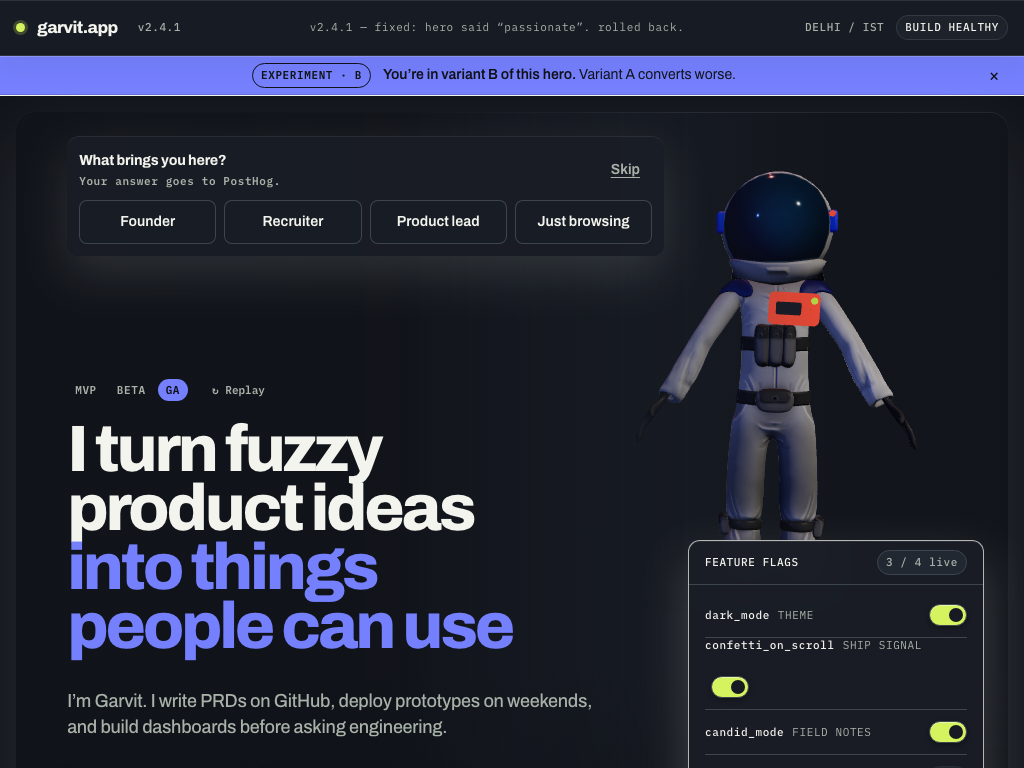
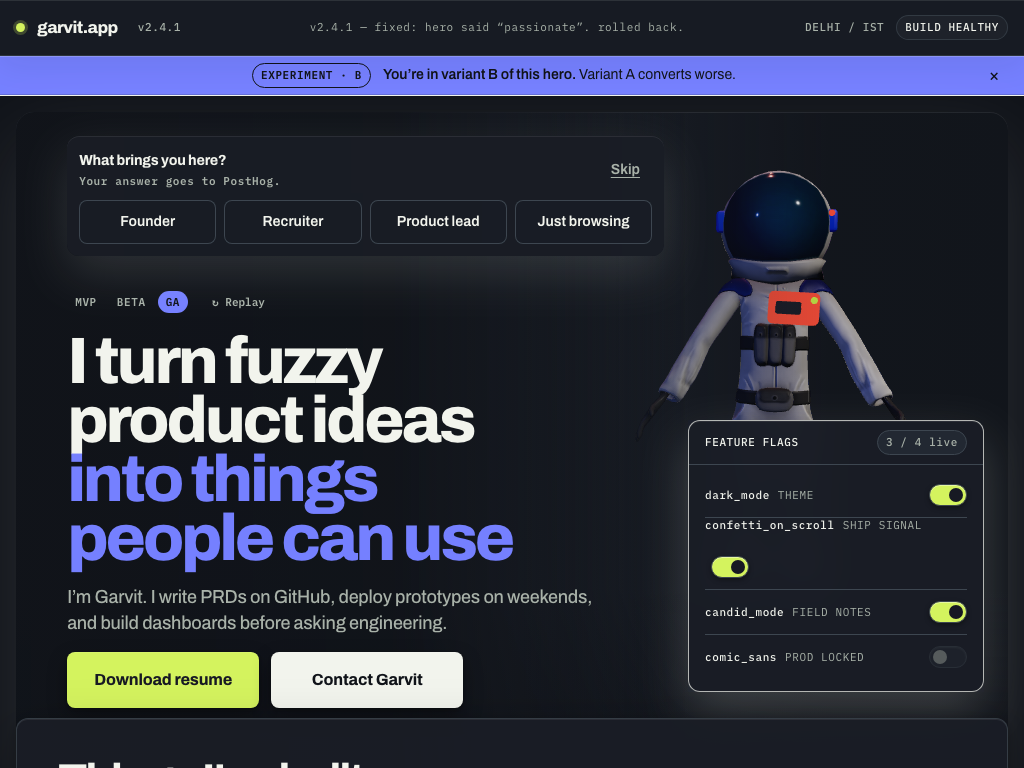
fix: keep hero CTAs in viewport at medium heights (D3 final correction)
At 1024x768 both hero CTAs sat below the initial viewport (resume CTA
bottom 828px): the 16rem persona-tray reservation plus the 880-1179
wrapped headline pushed the conversion path off-screen. Height-aware
(max-height: 929.98px) spacing compression inside the 880-1179 band:
copy padding-top 16rem -> 10.5rem (9rem at 880-1023 with the paired
tray rise to a 12px offset), intro/CTA gaps step down one token, and
bottom padding stays 8rem so the board deep-overlap teaser keeps its
approved gap to the CTA row. New e2e asserts both CTA rects fully
inside the 1024x768 viewport with >=16px bottom clearance (observed
failing at 930b80f, passing after). No type, 56px target, copy, model,
dock-semantics, or board-overlap change; all non-intersection
invariants re-verified.

Claude-Session: https://claude.ai/code/session_01A24gXsRnQhoU98ZW548uVP

diff --git a/src/components/hero/Hero.module.css b/src/components/hero/Hero.module.css
@@ -120,6 +120,46 @@
   }
 }
 
+/* Gate D3 final correction (880–1179px, medium heights): the 16rem tray
+   reservation plus the wrapped headline pushed both CTAs below a 768px
+   fold. At viewport heights ≤930px the reservation compresses toward
+   the tray's real band (24px offset + 120px tray = 144px) and the
+   intro/CTA gaps step down one token — type, 56px targets, copy, and
+   the dock-column width reservation are untouched. Above 930px even the
+   tallest band composition (880px, five-line headline) already keeps
+   both CTAs inside the fold with ≥16px clearance, so the approved tall
+   composition stands. */
+@media (max-width: 1179.98px) and (min-width: 880px) and (max-height: 929.98px) {
+  .copy {
+    /* 10.5rem clears the tray band (144px) by 24px. Bottom padding
+       stays 8rem: the board anchor's deep-overlap teaser hangs off the
+       hero's BOTTOM edge, so shrinking the bottom padding would raise
+       the board over the CTA row — the top-side reductions alone lift
+       the CTAs while preserving the approved board/CTA gap per width. */
+    padding-top: 10.5rem;
+  }
+
+  .intro,
+  .actions {
+    margin-top: var(--space-4);
+  }
+}
+
+/* 880–1023px: the headline wraps to five lines (~288px), so the copy
+   needs one more step — the persona tray rises to a 12px offset (its
+   paired rule in PersonaSatire.module.css) and the reservation follows
+   it down to 9rem, keeping a 12px tray↔copy clearance. */
+@media (max-width: 1023.98px) and (min-width: 880px) and (max-height: 929.98px) {
+  .copy {
+    padding-top: 9rem;
+  }
+
+  .intro,
+  .actions {
+    margin-top: var(--space-3);
+  }
+}
+
 @media (max-width: 879.98px) {
   .hero {
     min-height: 46rem;

diff --git a/e2e/responsive.spec.ts b/e2e/responsive.spec.ts
@@ -283,6 +283,37 @@ for (const viewport of mobileViewports) {
 }
 
 /**
+ * Gate D3 final correction — the conversion path is locked "big and
+ * unmissable": at 1024×768 (medium height, 880–1179px composition) BOTH
+ * hero CTAs must sit fully inside the initial viewport with ≥16px bottom
+ * clearance. Regression: the 16rem persona-tray reservation plus the
+ * wrapped headline pushed both CTAs below the fold.
+ */
+test("hero CTAs land fully inside the initial viewport at 1024x768", async ({
+  page,
+}) => {
+  await page.setViewportSize({ width: 1024, height: 768 });
+  await page.goto("/");
+  const hero = page.getByRole("region", {
+    name: /I turn fuzzy product ideas/i,
+  });
+
+  for (const name of [/Download resume/i, /Contact Garvit/i] as const) {
+    const cta = hero.getByRole("link", { name });
+    await expect(cta).toBeVisible();
+    const box = (await cta.boundingBox())!;
+    expect(box, String(name)).not.toBeNull();
+    expect(box.x, `${name} left edge`).toBeGreaterThanOrEqual(0);
+    expect(box.y, `${name} top edge`).toBeGreaterThanOrEqual(0);
+    expect(box.x + box.width, `${name} right edge`).toBeLessThanOrEqual(1024);
+    expect(
+      box.y + box.height,
+      `${name} bottom edge must clear the fold by >=16px`,
+    ).toBeLessThanOrEqual(768 - 16);
+  }
+});
+
+/**
  * Gate D3 — entering /#work-board must land "Things I've built" below
  * the sticky product chrome at every matrix width (mobile regression:
  * the heading used to sit beneath the chrome).

diff --git a/src/components/hero/PersonaSatire.module.css b/src/components/hero/PersonaSatire.module.css
@@ -96,6 +96,17 @@
   }
 }
 
+/* Gate D3 final correction pair (880–1023px, medium heights ≤930px):
+   the hero copy's tray reservation compresses to 9rem at these sizes
+   (Hero.module.css), so the tray itself rises to a 12px offset — its
+   band ends at 132px, keeping a 12px clearance to the copy. Tray
+   height, targets, and type are unchanged. */
+@media (max-width: 1023.98px) and (min-width: 880px) and (max-height: 929.98px) {
+  .tray {
+    top: var(--space-3);
+  }
+}
+
 @media (max-width: 619.98px) {
   .tray {
     top: var(--space-3);

diff --git a/src/components/hero/HeroEvolution.module.css b/src/components/hero/HeroEvolution.module.css
@@ -142,6 +142,16 @@
   }
 }
 
+/* Gate D3 final correction (880–1023px, medium heights ≤930px): the
+   five-line headline needs every non-type pixel — the phase rail's gap
+   to the headline steps down to 4px. Rail min-height (44px targets) and
+   all type sizes are unchanged. */
+@media (max-width: 1023.98px) and (min-width: 880px) and (max-height: 929.98px) {
+  .phaseRail {
+    margin-bottom: var(--space-1);
+  }
+}
+
 @media (max-width: 619.98px) {
   .headline {
     max-width: 22rem;

diff --git a/docs/qa/immersive/gate-d-home.md b/docs/qa/immersive/gate-d-home.md
@@ -414,3 +414,135 @@ targets/springs) untouched — design-owned.
 | **Taste total** | **— /25** | |
 
 Verdict: —
+
+## 10. D3 FINAL correction (rescore 33/40 + 20/25 → CTAs below fold at 1024×768)
+
+### 10.1 The failed rescore (design lead)
+
+| Apple criterion | Score (/5) |
+|---|---|
+| Purpose | 5 |
+| Agency | 3 |
+| Responsibility | 5 |
+| Familiarity | 4 |
+| Flexibility | 3 |
+| Simplicity | 4 |
+| Craft | 4 |
+| Delight | 5 |
+| **Apple total** | **33/40** |
+
+| Taste criterion | Score (/5) |
+|---|---|
+| Composition | 4 |
+| Hierarchy | 3 |
+| Authorship | 5 |
+| Asset/material | 5 |
+| Responsive craft | 3 |
+| **Taste total** | **20/25** |
+
+**Cause (evidence `matrix/home-1024x768-{light,dark}.png`, pre-fix):**
+at 1024×768 BOTH hero CTAs (Download resume, Contact Garvit) sat
+entirely below the initial viewport — the §9.2 correction's 16rem
+persona-tray reservation plus the 880–1179 wrapped headline pushed the
+conversion path off-screen at medium heights (resume CTA bottom edge:
+**828px** in a 768px viewport). Violates the locked big/unmissable-CTA
+requirement.
+
+### 10.2 What changed (height-aware spacing only — no type, target, copy, model, dock-semantics, or board-overlap change)
+
+All rules are gated on `max-height: 929.98px` — above 930px of viewport
+height even the tallest band composition (880px width, five-line
+headline) already kept both CTAs inside the fold with ≥16px clearance,
+so the approved tall composition stands untouched.
+
+`src/components/hero/Hero.module.css` (inside the existing 880–1179px
+band):
+
+- `.copy` `padding-top` 16rem → **10.5rem** (persona band is 24px offset
+  + 120px tray = 144px; 168px reservation keeps a 24px clearance).
+  `padding-bottom` stays **8rem** — the board anchor's deep-overlap
+  teaser hangs off the hero's bottom edge, so only top-side reductions
+  lift the CTAs; the approved board/CTA gap per width is preserved
+  exactly (verified 10.2px at 1024w, same as pre-fix).
+- `.intro` / `.actions` `margin-top` `--space-8` → `--space-4`.
+- 880–1023.98px step (five-line headline, ~288px): `padding-top`
+  **9rem**, gaps `--space-3`.
+
+Paired tray rule (`PersonaSatire.module.css`, 880–1023.98px only): the
+tray rises to `top: var(--space-3)` (12px) so its band ends at 132px —
+the 9rem (144px) reservation keeps a 12px tray↔copy clearance. Tray
+height, targets, type unchanged.
+
+`HeroEvolution.module.css` (880–1023.98px only): `.phaseRail`
+`margin-bottom` `--space-2` → `--space-1` (rail min-height 44px kept).
+
+### 10.3 TDD record (new e2e, `e2e/responsive.spec.ts`)
+
+New test "hero CTAs land fully inside the initial viewport at
+1024x768": both CTA bounding rects fully inside the viewport with
+bottom ≤ 768−16.
+
+- **FAIL observed at 930b80f**: `Download resume bottom edge must clear
+  the fold by >=16px — Expected: <= 752, Received: 828.0625`.
+- **PASS after fix** (chromium + webkit, production server): both CTAs
+  at y 652.1→708.1 — **59.9px** bottom clearance.
+
+Post-fix geometry (scene-settled, production build, height 768):
+
+| Width | CTA bottom | Fold clearance | Tray↔copy clearance | Board top − CTA bottom |
+|---|---|---|---|---|
+| 880 | 750.3 | 17.7px | 12px (tray b 244, rail t 256) | +26.8px (unchanged vs pre-fix) |
+| 1024 | 708.1 | 59.9px | 24px (tray b 256, rail t 280) | +10.2px (unchanged vs pre-fix) |
+| 1179 | 746.3 | 21.7px | 24px | −7.6px (pre-existing authored teaser overlap, unchanged) |
+
+All §9.2 non-intersection invariants re-asserted by the existing suite
+(dock vs H1/intro/CTA/persona; persona vs H1/intro/CTA at 768×1024 and
+1024×768): dock column stays horizontally disjoint from copy and tray
+at all band widths (e.g. 1024w: dock left 688 vs copy/tray right 664).
+
+### 10.4 Captures refreshed (overwritten)
+
+- `matrix/home-1024x768-light.png` — both CTAs fully visible, board
+  teaser edge below them, 0 console errors.
+- `matrix/home-1024x768-dark.png` — same, dark scheme.
+
+Verified by reading the refreshed captures: both CTA rectangles sit
+visibly inside the frame above the board panel edge in both themes.
+
+### 10.5 Fresh gates (this correction, in order, isolated dist `.next-d3d`, restarted production server :3142)
+
+| Gate | Result |
+|---|---|
+| `pnpm typecheck` | PASS |
+| `pnpm lint` | PASS |
+| `pnpm test` (47 files / 185 tests) | PASS |
+| `NEXT_DIST_DIR=.next-d3d NEXT_PUBLIC_WORLD_PROTOTYPE=1 pnpm build` (fresh dist) | PASS |
+| `NEXT_DIST_DIR=.next-d3d pnpm check:budgets` | PASS (all, no SKIP) |
+| `responsive.spec.ts` FULL, chromium + webkit (fresh prod server) | 66/66 PASS (incl. new CTA-in-viewport test on both engines) |
+| `world.spec.ts` + `reduced-motion.spec.ts` + `home.spec.ts`, chromium | 22/22 PASS |
+| 1024×768 capture pair (light+dark) | 0 console errors, CTAs in frame |
+
+### 10.6 Final rescore (for the design lead)
+
+| Apple criterion | Score (/5) | Notes |
+|---|---|---|
+| Purpose | — | |
+| Agency | — | |
+| Responsibility | — | |
+| Familiarity | — | |
+| Flexibility | — | |
+| Simplicity | — | |
+| Craft | — | |
+| Delight | — | |
+| **Apple total** | **— /40** | |
+
+| Taste criterion | Score (/5) | Notes |
+|---|---|---|
+| Composition | — | |
+| Hierarchy | — | |
+| Authorship | — | |
+| Asset/material | — | |
+| Responsive craft | — | |
+| **Taste total** | **— /25** | |
+
+Verdict: —
